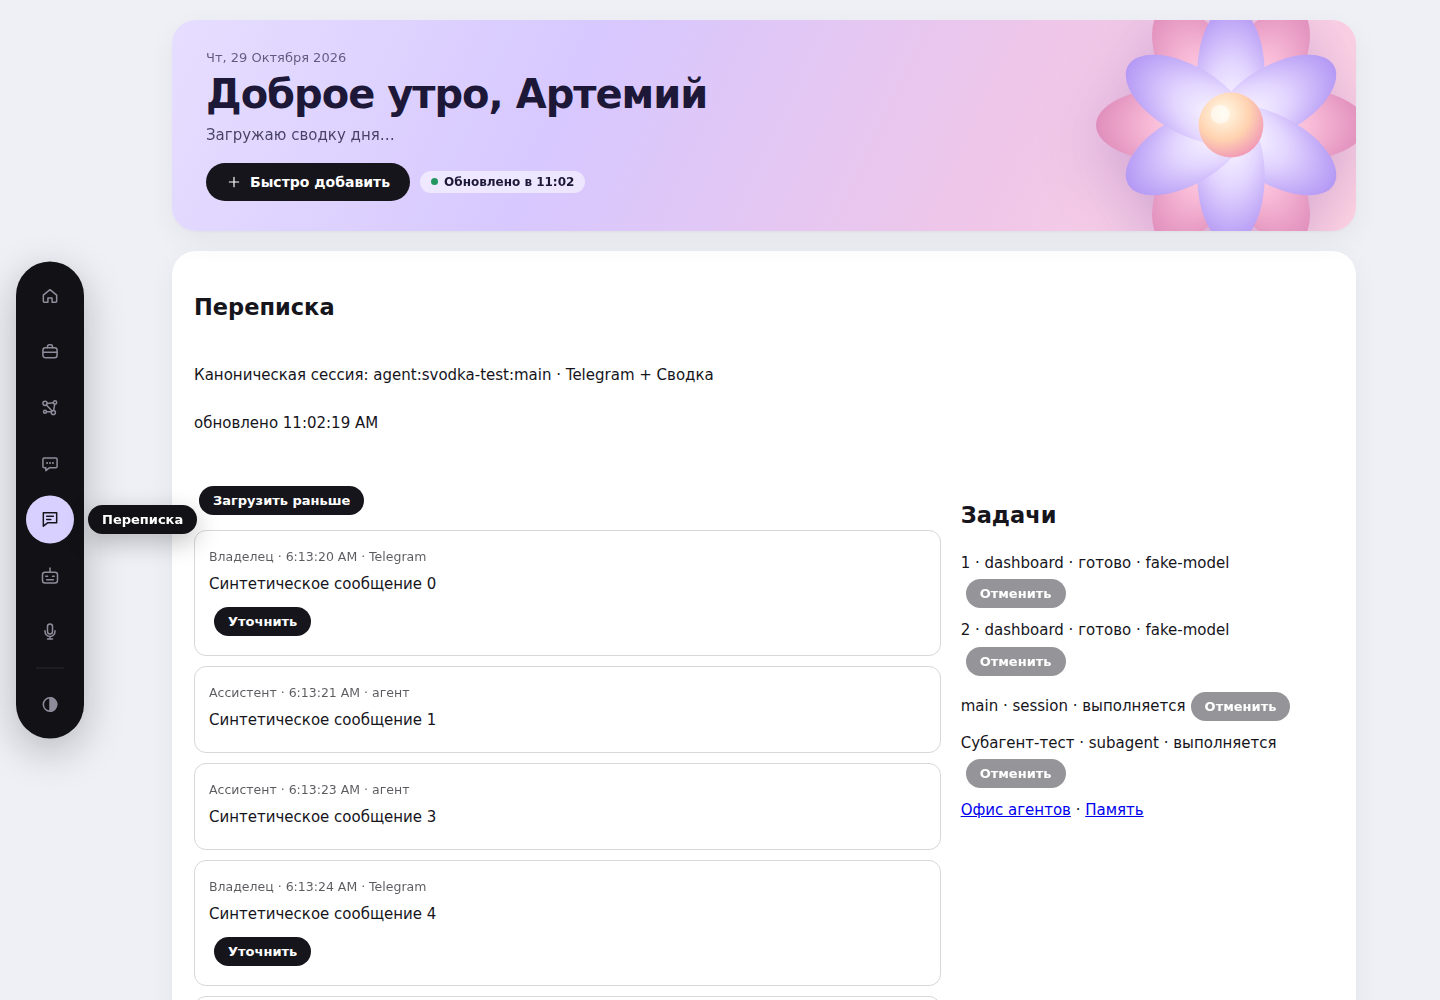
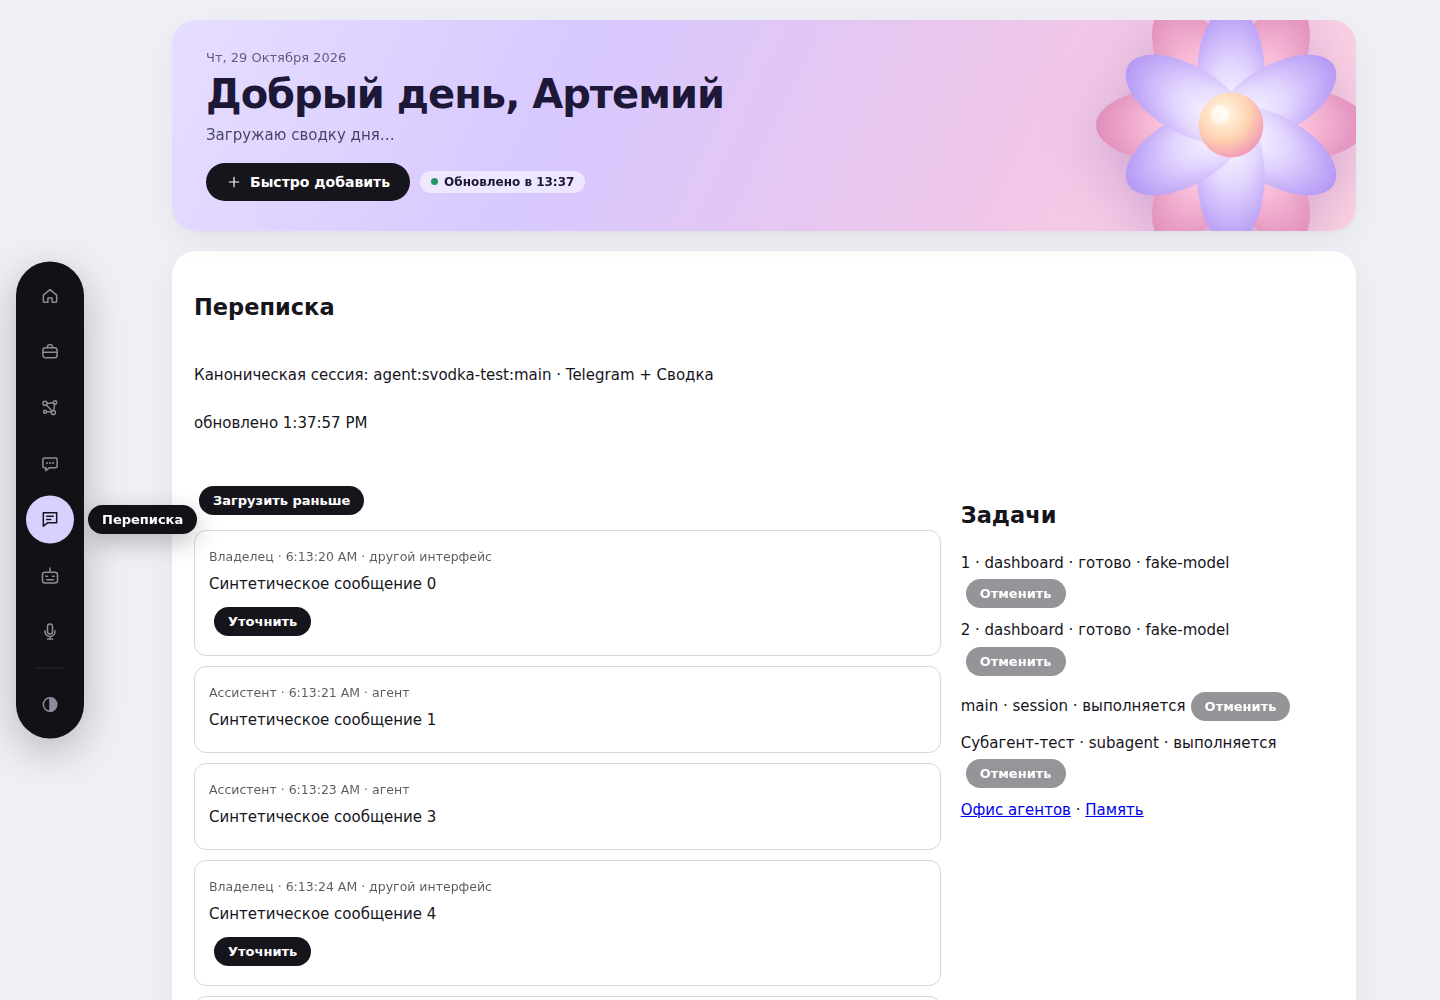
Сводка: «Переписка» по живым данным Gateway — источник Telegram, модель, шаги инструментов, handoff
- история: источник и id Telegram из __openclaw.transport, модель из provider/model,
  шаги toolCall без аргументов, thinking не показывается, чужие сообщения скрыты,
  автоматизация/доставка в канал помечены, gap только при выпадении сообщений
- задачи: активные субагенты + 5 последних
- живая проверка на настоящем Gateway: чтение agent:main:main (только метаданные),
  отправка и уточнение в одноразовых сессиях ровно один раз, скриншоты живого превью
- документация: сопоставление сессий, live vs mock, env-handoff и откат

Changed region(s): [[0.2188, 0.062, 0.5, 0.124], [0.25, 0.868, 0.3438, 0.899], [0.1875, 0.403, 0.2812, 0.434]]

diff --git a/openclaw/dashboard/index.html b/openclaw/dashboard/index.html
@@ -2650,8 +2650,9 @@ function chatRender(){
  const list=$('chat-messages');list.replaceChildren();
  if(chatState.gap)list.append(chatNode('p','пропуск в истории'));
  if(chatState.hidden)list.append(chatNode('p','скрыто '+chatState.hidden+' служебных'));
+ if(chatState.content_truncated)list.append(chatNode('p','длинные сообщения обрезаны шлюзом до 4000 символов'));
  if(chatState.redacted)list.append(chatNode('p','Часть содержимого скрыта шлюзом'));
- for(const m of chatState.messages){const card=chatNode('article');card.className='chat-message';const source={telegram:'Telegram',dashboard:'Сводка',agent:'агент'}[m.source]||'неизвестно';card.append(chatNode('small',(m.role==='user'?'Владелец':'Ассистент')+' · '+(m.ts==null?'время неизвестно':new Date(m.ts*1000).toLocaleTimeString())+' · '+source+(m.edited?' · изменено':'')+(m.deleted?' · удалено':'')+(m.truncated?' · обрезано':'')));const text=chatNode('p',m.text);text.style.whiteSpace='pre-wrap';card.append(text);for(const a of m.attachments||[]){const mark=chatNode('a','['+a.kind+(a.name?': '+a.name:'')+'] ');mark.setAttribute('role','note');card.append(mark);}if(m.role==='user'){const b=chatNode('button','Уточнить');b.disabled=!chatState.available;b.onclick=()=>chatRevision(m);card.append(b);}list.append(card);}
+ for(const m of chatState.messages){if(m.role==='activity'){list.append(chatNode('p','⚙ инструменты: '+(m.tools||[]).join(', ')));continue;}const card=chatNode('article');card.className='chat-message';const source={telegram:'Telegram',dashboard:'Сводка',agent:'агент',automation:'автоматизация',unknown:'другой интерфейс'}[m.source]||'другой интерфейс';card.append(chatNode('small',(m.role==='user'?'Владелец':'Ассистент')+' · '+(m.ts==null?'время неизвестно':new Date(m.ts*1000).toLocaleTimeString())+' · '+source+(m.source==='telegram'&&m.source_message_id!=null?' #'+m.source_message_id:'')+(m.model?' · '+m.model:'')+(m.delivered_to_channel?' · доставлено в канал':'')+(m.edited?' · изменено':'')+(m.deleted?' · удалено':'')+(m.truncated?' · обрезано':'')));const text=chatNode('p',m.not_owner?'сообщение не владельца скрыто':m.text);text.style.whiteSpace='pre-wrap';card.append(text);for(const a of m.attachments||[]){const mark=chatNode('a','['+a.kind+(a.name?': '+a.name:'')+'] ');mark.setAttribute('role','note');card.append(mark);}if(m.role==='user'&&!m.not_owner){const b=chatNode('button','Уточнить');b.disabled=!chatState.available;b.onclick=()=>chatRevision(m);card.append(b);}list.append(card);}
  for(const p of chatState.pending)list.append(chatNode('p',p.text+' · ожидает подтверждения в истории'));
  $('chat-earlier').disabled=chatState.next==null||!chatState.available;
 }
@@ -2667,7 +2668,7 @@ function chatRevision(message){
  box.append(original,edit,save,warning,send,feedback);
 }
 function chatTasks(tasks){const list=$('chat-tasks');list.replaceChildren();const labels={queued:'в очереди',running:'выполняется',waiting_approval:'ждёт решения владельца',completed:'готово',failed:'ошибка',cancelled:'отменено',unknown:'неизвестно',stale:'устарело'};for(const t of tasks){const row=chatNode('p',(t.title||String(t.id))+' · '+t.kind+' · '+(labels[t.status]||labels.unknown)+(t.model?' · '+t.model:''));const b=chatNode('button','Отменить');b.disabled=true;b.title=t.cancel.reason;row.append(b);list.append(row);}}
-function chatApply(h,earlier){chatState.messages=workspaceMerge(earlier?h.messages:chatState.messages,earlier?chatState.messages:h.messages);if(earlier||chatState.next==null)chatState.next=h.next_offset;chatState.gap=chatState.gap||h.gap;chatState.hidden=h.hidden_count;chatState.redacted=h.redacted;const confirmed=new Set(chatState.messages.map(m=>m.origin_request).filter(Boolean));chatState.pending=chatState.pending.filter(p=>!confirmed.has(p.request));chatSave();chatRender();}
+function chatApply(h,earlier){chatState.messages=workspaceMerge(earlier?h.messages:chatState.messages,earlier?chatState.messages:h.messages);if(earlier||chatState.next==null)chatState.next=h.next_offset;chatState.gap=chatState.gap||h.gap;chatState.hidden=h.hidden_count;chatState.redacted=h.redacted;chatState.content_truncated=h.content_truncated;const confirmed=new Set(chatState.messages.map(m=>m.origin_request).filter(Boolean));chatState.pending=chatState.pending.filter(p=>!confirmed.has(p.request));chatSave();chatRender();}
 async function chatPoll(){
  clearTimeout(chatState.timer);if(document.hidden||current!=='chat'||chatState.busy)return;
  chatState.busy=true;try{const w=await chatJSON('/api/workspace');chatState.available=w.status.available;$('chat-key').textContent=w.session.key||'не задана';$('chat-reason').textContent=w.status.available?'':w.status.reason;for(const id of ['chat-input','chat-send']){$(id).disabled=!w.status.available||chatState.sending;$(id).title=w.status.available?'':w.status.reason;}document.querySelectorAll('#chat-revision button, #chat-revision textarea').forEach(n=>{if(!w.status.available){if(!n.dataset.workspaceDisabled)n.dataset.workspaceDisabled=n.disabled?'disabled':'enabled';n.disabled=true;n.title=w.status.reason;}else if(n.dataset.workspaceDisabled){n.disabled=n.dataset.workspaceDisabled==='disabled';delete n.dataset.workspaceDisabled;n.title='';}});chatTasks(w.tasks||[]);if(w.error)throw Error(w.error);if(w.status.available)chatApply(await chatJSON('/api/workspace/history'),false);else chatRender();chatState.delay=4000;$('chat-live').textContent='обновлено '+new Date().toLocaleTimeString();}catch(e){chatState.delay=Math.min(30000,chatState.delay*2);$('chat-live').textContent='соединение потеряно, повтор через '+chatState.delay/1000+' с';$('chat-reason').textContent=e.message;}finally{chatState.busy=false;if(!document.hidden&&current==='chat')chatState.timer=setTimeout(chatPoll,chatState.delay);}

diff --git a/openclaw/dashboard/workspace.py b/openclaw/dashboard/workspace.py
@@ -136,7 +136,6 @@ class Workspace:
             if offset == 0 and self.tail and self.tail[0] == cache_key and time.monotonic()-self.tail_time < 2:
                 return self.tail[1]
             data = self.gateway_invoke('sessions_history', {'sessionKey':self.agent.canonical(), 'limit':limit, 'offset':offset, 'includeTools':False})
-            channel = next((r.get('channel') for r in self.sessions() if r.get('key') in self.canonical_keys()), None) or 'unknown'
             messages, hidden, seen = [], 0, set()
             rows = data.get('messages', [])
             if not isinstance(rows,list):
@@ -146,7 +145,7 @@ class Workspace:
                     hidden += 1
                     continue
                 role, content = msg['role'], msg.get('content', '')
-                attachments = []
+                attachments, tools, has_tool = [], [], False
                 if isinstance(content, list):
                     texts = []
                     for block in content:
@@ -154,6 +153,11 @@ class Workspace:
                             continue
                         if block.get('type') == 'text' and isinstance(block.get('text'), str):
                             texts.append(block['text'])
+                        elif role == 'assistant' and block.get('type') == 'toolCall':
+                            has_tool = True
+                            name = block.get('name') or block.get('toolName')
+                            if isinstance(name, str) and re.fullmatch(r'[A-Za-z0-9_.:-]{1,64}', name) and not self.secret_re.search(name) and name not in tools:
+                                tools.append(name)
                         elif block.get('type') in ('image','audio','file','document'):
                             a = {'kind':block['type']}
                             if isinstance(block.get('name'), str):
@@ -161,6 +165,9 @@ class Workspace:
                             attachments.append(a)
                     content = '\n'.join(texts)
                 text = self.clean(content if isinstance(content, str) else '')
+                if role == 'assistant' and not text and not has_tool:
+                    hidden += 1
+                    continue
                 ts = timestamp(msg.get('timestamp'), milliseconds=True)
                 meta = msg.get('__openclaw')
                 mid = meta.get('id') if isinstance(meta, dict) else None
@@ -170,19 +177,47 @@ class Workspace:
                 if mid in seen:
                     continue
                 seen.add(mid)
-                item = dict(id=mid, role=role, text=text[:8000], ts=ts, attachments=attachments, source='agent' if role=='assistant' else channel, synthetic_id=synthetic, truncated=len(text)>8000)
+                item = dict(id=mid, role=role, text=text[:8000], ts=ts, attachments=attachments, source='agent' if role=='assistant' else 'unknown', synthetic_id=synthetic, truncated=len(text)>8000)
                 origin = re.match(r'^\[Сводка:([A-Za-z0-9_-]{16,64})\]\s*', text) if role=='user' else None
                 if origin:
                     item.update(source='dashboard', origin_request=origin[1], text=text[origin.end():][:8000])
+                if role == 'user':
+                    meta = meta if isinstance(meta, dict) else {}
+                    transport = meta.get('transport')
+                    if isinstance(transport, dict):
+                        channel = transport.get('channel')
+                        if isinstance(channel, str) and re.fullmatch(r'[a-z0-9_-]{1,32}', channel):
+                            item['source'] = channel
+                        source_id = transport.get('messageId')
+                        if isinstance(source_id, (str, int, float)) and not isinstance(source_id, bool) and len(str(source_id)) <= 64:
+                            item['source_message_id'] = self.clean(str(source_id))
+                    if meta.get('senderIsOwner') is False:
+                        item.update(text='', not_owner=True, attachments=[])
+                        item.pop('origin_request', None)
+                else:
+                    provider, model = msg.get('provider'), msg.get('model')
+                    if isinstance(provider, str) and isinstance(model, str) and provider != 'openclaw':
+                        item['model'] = self.clean(provider+'/'+model)[:100]
+                    if provider == 'openclaw' and model == 'delivery-mirror':
+                        item['delivered_to_channel'] = True
+                    if isinstance(msg.get('openclawAutomation'), dict) or model == 'automation-result':
+                        item['source'] = 'automation'
+                    if not text and has_tool:
+                        item.update(role='activity', text='', tools=tools, attachments=[])
                 for field in ('edited','editedAt','deleted'):
                     if field in msg:
                         item['deleted' if field=='deleted' else 'edited'] = bool(msg[field])
                 reply = msg.get('replyTo', msg.get('reply_to_id'))
                 if isinstance(reply, (str,int)):
                     item['reply_to'] = reply
-                messages.append(item)
+                if item['role'] == 'activity' and messages and messages[-1]['role'] == 'activity':
+                    messages[-1]['tools'] = list(dict.fromkeys(messages[-1]['tools'] + tools))
+                else:
+                    messages.append(item)
             # Gateway order is the transcript order; rows without timestamps keep their position.
-            result = dict(messages=messages, next_offset=data.get('nextOffset') if data.get('hasMore') else None, has_more=bool(data.get('hasMore')), gap=bool(data.get('truncated') or data.get('droppedMessages') or data.get('windowReset')), redacted=bool(data.get('contentRedacted')), hidden_count=hidden, fetched_at=time.time())
+            result = dict(messages=messages, next_offset=data.get('nextOffset') if data.get('hasMore') else None, has_more=bool(data.get('hasMore')), gap=bool(data.get('droppedMessages') or data.get('windowReset')), content_truncated=bool(data.get('contentTruncated')), redacted=bool(data.get('contentRedacted')), hidden_count=hidden, fetched_at=time.time())
+            if type(data.get('totalMessages')) is int:
+                result['total'] = data['totalMessages']
             if offset == 0:
                 self.tail, self.tail_time = (cache_key, result), time.monotonic()
             return result
@@ -225,9 +260,18 @@ class Workspace:
             finally:
                 c.close()
 
+    def visible_sessions(self, sessions):
+        children = [r for r in sessions if r.get('parent')]
+        active = [r for r in children if r.get('status') in ('running', 'queued') or r.get('hasActiveRun')]
+        others = [r for r in children if r not in active]
+        latest = sorted(others, key=lambda r: timestamp(r.get('updatedAt')) or 0, reverse=True)[:5]
+        visible = [r for r in sessions if not r.get('parent') or r in active or r in latest]
+        return visible, len(others) - len(latest)
+
     def tasks(self, agent_snapshot, queue, sessions=None):
         out = []
-        sources = [('dashboard', agent_snapshot.get('runs',[])), ('coder',queue.get('jobs',[])), ('session',self.sessions() if sessions is None else sessions)]
+        sessions, _ = self.visible_sessions(self.sessions() if sessions is None else sessions)
+        sources = [('dashboard', agent_snapshot.get('runs',[])), ('coder',queue.get('jobs',[])), ('session',sessions)]
         for kind, rows in sources:
             for row in rows:
                 raw = row.get('status') or ('running' if row.get('hasActiveRun') else 'unknown')

diff --git a/openclaw/dashboard/tests/test_workspace.py b/openclaw/dashboard/tests/test_workspace.py
@@ -93,9 +93,50 @@ class WorkspaceTests(unittest.TestCase):
         self.assertEqual(m['attachments'],[{'kind':'image','name':'photo'}]);self.assertEqual(m['text'],'hello  *** ')
         self.assertNotIn('private',json.dumps(h));self.assertEqual(h['next_offset'],30);self.assertTrue(h['gap']);self.assertTrue(h['redacted'])
         n=len(self.seen);self.w.history();self.assertEqual(len(self.seen),n)
-        self.w.history(30);self.assertEqual(self.seen[-2][2]['args']['offset'],30)
+        self.w.history(30);self.assertEqual(self.seen[-1][2]['args']['offset'],30)
         rows=self.w.sessions();self.assertEqual(len(rows),2);self.assertNotIn('participants',rows[0]);self.assertNotIn('delivery',rows[0])
         with self.assertRaises(ValueError):self.w.gateway_invoke('exec',{})
+    def test_real_gateway_history(self):
+        def msg(mid, content, **fields):
+            return dict(role='assistant', content=content, timestamp=1700000000000, __openclaw={'id':mid,'seq':1,'runId':'run'}, **fields)
+        rows = [
+            {'role':'user','content':'hello','__openclaw':{'id':'u'}},
+            msg('t1',[{'type':'thinking','thinking':'private'},{'type':'toolCall','name':'exec','arguments':{'secret':'private'}}]),
+            msg('t2',[{'type':'toolCall','toolName':'web.search'},{'type':'toolCall','name':'bad name'}]),
+            msg('hidden',[{'type':'thinking','thinking':'private'}]),
+            msg('a',[{'type':'text','text':'answer'}],provider='test',model='model'),
+            msg('mirror',[{'type':'text','text':'delivered'}],provider='openclaw',model='delivery-mirror'),
+            msg('auto','done',model='automation-result'),
+            msg('auto2','done',openclawAutomation={}),
+            {'role':'user','content':'telegram','__openclaw':{'id':'tg','transport':{'channel':'telegram','messageId':42,'conversationRef':'private'},'senderId':'private','senderName':'private','senderUsername':'private'}},
+            {'role':'user','content':'private','__openclaw':{'id':'other','senderIsOwner':False}},
+        ]
+        rows.append(dict(rows[-2]))
+        with patch.object(self.w,'gateway_invoke',return_value={'messages':rows,'truncated':True,'contentTruncated':True,'totalMessages':100}):
+            h=self.w.history()
+        self.assertFalse(h['gap']);self.assertTrue(h['content_truncated']);self.assertEqual(h['total'],100)
+        self.assertEqual(h['hidden_count'],1)
+        m=h['messages'];self.assertEqual([r['id'] for r in m],['u','t1','a','mirror','auto','auto2','tg','other'])
+        self.assertEqual(m[0]['source'],'unknown')
+        self.assertEqual(m[1]['role'],'activity');self.assertEqual(m[1]['tools'],['exec','web.search'])
+        self.assertEqual(m[2]['model'],'test/model');self.assertTrue(m[3]['delivered_to_channel'])
+        self.assertEqual(m[3]['source'],'agent');self.assertEqual(m[4]['source'],'automation');self.assertEqual(m[5]['source'],'automation')
+        self.assertEqual(m[6]['source'],'telegram');self.assertEqual(m[6]['source_message_id'],'42')
+        self.assertTrue(m[7]['not_owner']);self.assertEqual(m[7]['text'],'')
+        self.assertNotIn('private',json.dumps(h));self.assertNotIn('arguments',json.dumps(h))
+
+    def test_subagent_visibility(self):
+        rows=[{'key':'main'}]+[dict(key=str(i),parent='main',status='completed',updatedAt=i*1000) for i in range(9)]
+        rows += [dict(key='running',parent='main',status='running'),dict(key='queued',parent='main',status='queued'),dict(key='active',parent='main',status='completed',hasActiveRun=True)]
+        visible,hidden=self.w.visible_sessions(rows)
+        self.assertEqual(hidden,4)
+        self.assertEqual({r['key'] for r in visible},{'main','4','5','6','7','8','running','queued','active'})
+        self.assertEqual(len(self.w.tasks({}, {}, rows)),9)
+        self.responses=[]
+        with patch.object(server,'workspace_service',self.w),patch.object(server,'agent_service',self.agent),patch.object(server,'load_token',return_value='panel-token'),patch.object(self.w,'sessions',return_value=rows):
+            h=self.handler('/api/workspace');h.authorize=lambda:(True,None);h.agent_snapshot=lambda:{'runs':[]};h.do_GET()
+        self.assertEqual(self.responses[-1][1]['hidden_subagents'],4)
+
     def test_revision_idempotence(self):
         draft=self.w.create_revision('m1','original','new');self.assertEqual(self.seen,[]);self.assertEqual(draft['status'],'draft')
         a=self.w.send_revision(draft['id']);b=self.w.send_revision(draft['id'])
@@ -132,7 +173,7 @@ class WorkspaceTests(unittest.TestCase):
         threads=[threading.Thread(target=lambda:results.append(self.w.history())) for _ in range(5)]
         for thread in threads:thread.start()
         for thread in threads:thread.join(3)
-        self.assertEqual(len(results),5);self.assertEqual(len(self.seen),2)
+        self.assertEqual(len(results),5);self.assertEqual(len(self.seen),1)
     def test_successful_send_and_revision_routes(self):
         self.responses=[]
         with patch.object(server,'agent_service',self.agent),patch.object(server,'load_token',return_value='panel-token'):

diff --git a/openclaw/dashboard/server.py b/openclaw/dashboard/server.py
@@ -1071,7 +1071,7 @@ class Handler(BaseHTTPRequestHandler):
                 key = agent_service.canonical()
             except Unavailable:
                 key = None
-            payload = dict(status=status, session={'canonical':key is not None,'key':key}, sessions=sessions, tasks=tasks)
+            payload = dict(status=status, session={'canonical':key is not None,'key':key}, sessions=sessions, tasks=tasks, hidden_subagents=workspace.visible_sessions(sessions)[1])
             if error:
                 payload['error'] = error
             return self.send_json(200,payload)
